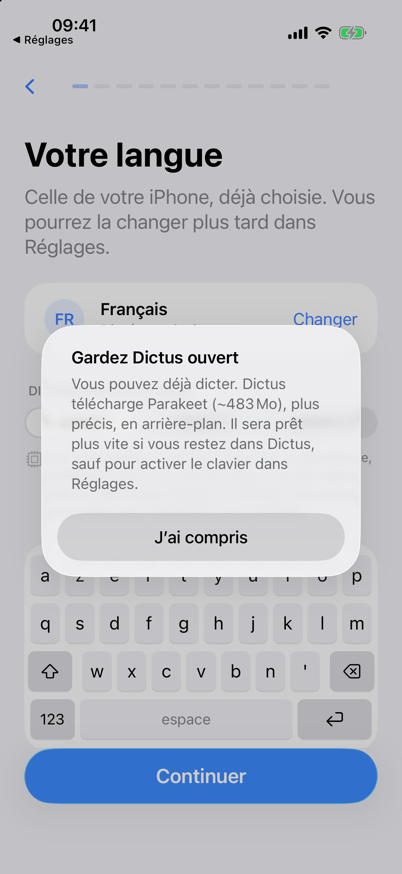
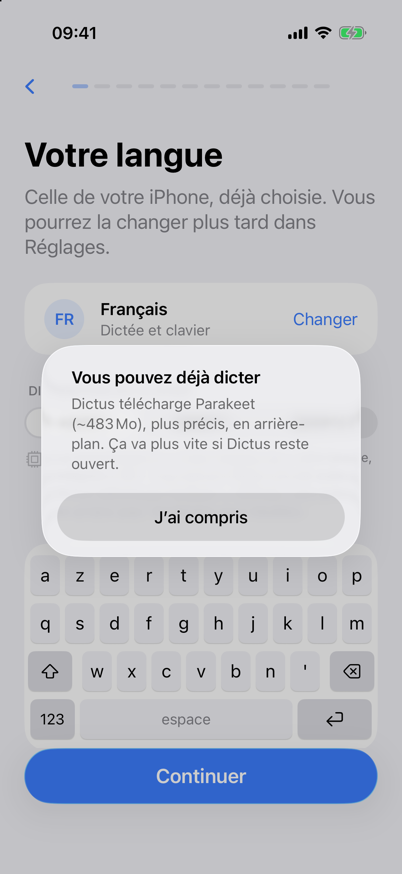
Evidence: Apple-route popup titled « Vous pouvez déjà dicter »
New capture of the popup after the title and text change, and the
Home card note pointed at #1083 / PR #1087.

refs #1057

Changed region(s): [[0.0896, 0.3707, 0.8955, 0.6796], [0.0299, 0.0, 0.2388, 0.0618]]

diff --git a/docs/agents/evidence/1057-parakeet-behind-apple/README.md b/docs/agents/evidence/1057-parakeet-behind-apple/README.md
@@ -15,10 +15,10 @@ with no French model installed and took 10 s to "install" it. The dictated audio
 | File | What it shows |
 |---|---|
 | `01-language-apple-parakeet-fr.png` | Language step: Apple's recognition, you can dictate at once, Parakeet (~483 Mo) downloads in the background |
-| `02-popup-dictate-now-fr.png` | Right after Continuer: the popup, new text « Vous pouvez déjà dicter… » |
+| `02-popup-dictate-now-fr.png` | Right after Continuer: the popup titled « Vous pouvez déjà dicter », text « Dictus télécharge Parakeet (~483 Mo), plus précis, en arrière-plan. Ça va plus vite si Dictus reste ouvert. » (second run, commit `d683707b`) |
 | `03-first-dictation-apple-fr.png` | First dictation step: the text from the Dictus keyboard, transcribed by Apple's engine |
 | `04-models-apple-selected-parakeet-downloaded-fr.png` | Models after the download: Parakeet downloaded, Apple still the selected engine |
-| `05-home-active-model-card-fr.png` | Home: its card reads « Modèle actif · Parakeet v3 » while Apple dictates (see below) |
+| `05-home-active-model-card-fr.png` | Home: its card reads « Modèle actif · Parakeet v3 » while Apple dictates: the bug of #1083, fixed by PR #1087 |
 
 **Not captured: the Models page with the download in progress.** On this Mac the 483 MB
 arrived in 11 s (10 % → 100 %, 21:57:42 → 21:57:53), before any screen past the popup could be
@@ -51,6 +51,6 @@ marker lets through.
 
 ## Home's card
 
-Home shows a ready downloaded model in its « Modèle actif » card whenever there is one (#1065's
-rule: Apple's card only when Apple is the sole engine). With Parakeet downloaded behind Apple, the
-card names Parakeet while dictations run on Apple. Not changed here.
+With Parakeet downloaded behind Apple, Home's « Modèle actif » card names Parakeet while
+dictations run on Apple. This is the bug of #1083, fixed by PR #1087 (one source of truth for the
+engine that dictates); this run predates that fix. Not changed here.
